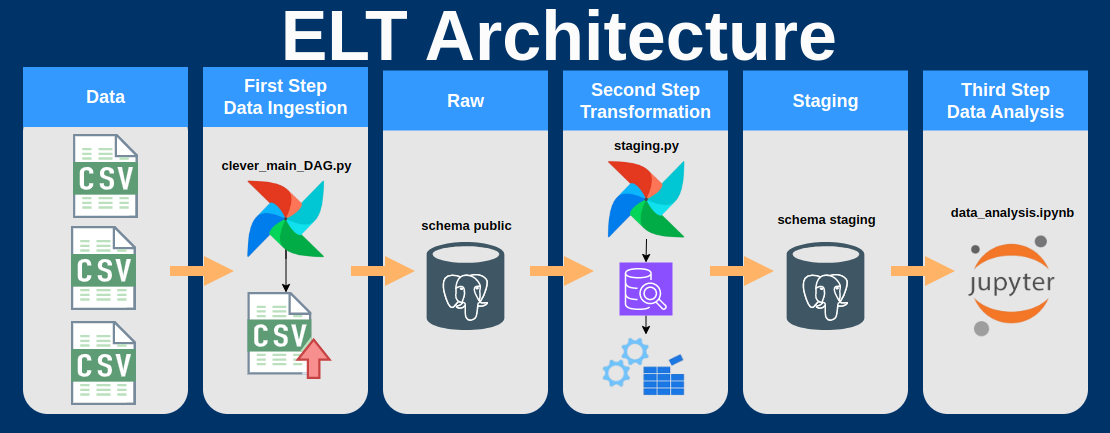
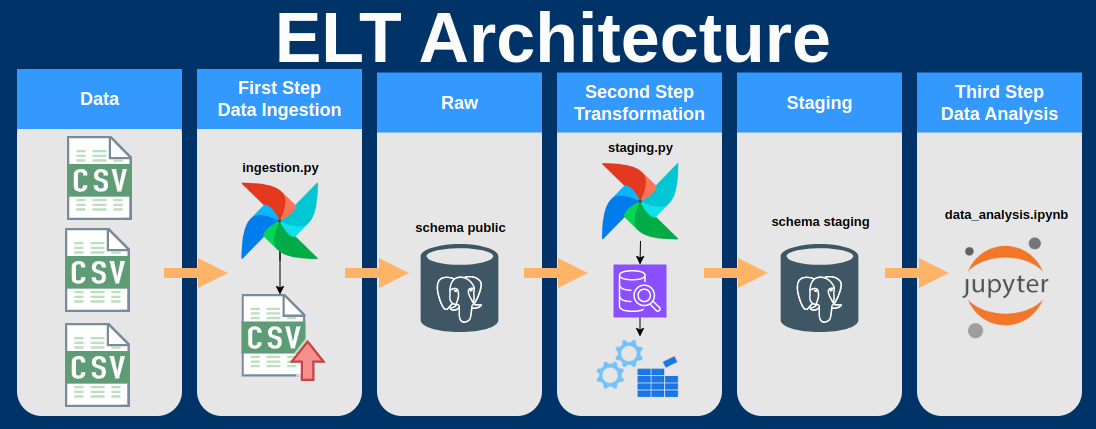
change dag name

diff --git a/dags/ingestion.py b/dags/ingestion.py
@@ -22,7 +22,7 @@ datasets = [
 ]
 
 with DAG(
-    dag_id="clever_main_DAG",
+    dag_id="ingestion",
     default_args=default_args,
     catchup=False,
     schedule="20 0 * * *",

diff --git a/README.md b/README.md
@@ -2,14 +2,14 @@
 
 Hello everyone! For this project, I decided to focus on a more robust architecture by creating an ELT and using Postgres as a data lake with data layers.
 
-The main DAG is still [clever_main_DAG.py](dags/clever_main_DAG.py), but now there is a second DAG called [staging.py](dags/staging.py) that, as the name suggests, creates the second data layer, keeping only the tables that will be used for analysis, while also performing some basic transformations. To do this, I created some queries that perform these transformations and finally I performed the analyses in the [data_analysis.ipynb](notebooks/data_analysis.ipynb) notebook.
+The main DAG is still [ingestion.py](dags/ingestion.py), but now there is a second DAG called [staging.py](dags/staging.py) that, as the name suggests, creates the second data layer, keeping only the tables that will be used for analysis, while also performing some basic transformations. To do this, I created some queries that perform these transformations and finally I performed the analyses in the [data_analysis.ipynb](notebooks/data_analysis.ipynb) notebook.
 
 ## Architecture
 
 ![ELT_Architecture](elt_arch.png)
 
 ### First step - Data Ingestion
-Data ingestion starts with [clever_main_DAG.py](dags/clever_main_DAG.py), which takes the list of CSVs and dumps them into the database in the public schema. This is the "raw" layer where the data has not been transformed. It is possible to use this data, but this makes analysis difficult because it still has a lot of noise, many useless columns, null data, wrong datatypes, among other things, so having a "staging" layer helps ensure better data quality.
+Data ingestion starts with [ingestion.py](dags/ingestion.py), which takes the list of CSVs and dumps them into the database in the public schema. This is the "raw" layer where the data has not been transformed. It is possible to use this data, but this makes analysis difficult because it still has a lot of noise, many useless columns, null data, wrong datatypes, among other things, so having a "staging" layer helps ensure better data quality.
 
 ### Second step - Data Transformation
 Now, after the data is available in the database, it's time to choose which tables to use and make the basic transformations. For this, I'm using the DAG [staging.py](dags/staging.py) that uses the `run_sql()` function to run the queries that you can find in the `/data-trial/queries/` path.
@@ -35,7 +35,7 @@ and the columns
 
 Validations are mainly to avoid null data that I consider necessary. From the point of view of the end customer who is researching which company to hire, I also considered it necessary for the company to have a telephone number or website, be verified and the status be `"OPERATIONAL"` so that the customer can hire the company without problems.
 
-> Note: this DAG uses an Airflow dataset, so whenever [clever_main_DAG.py](dags/clever_main_DAG.py) finishes this DAG will be triggered. This is good to ensure that even if there is a delay in the first DAG, the second one will not be triggered before time. But it is important to be aware of the following: If you clear any run of the mother DAG, the child DAG will be triggered again. In this case it does not cause any problems but it is good to be aware of this behavior.
+> Note: this DAG uses an Airflow dataset, so whenever [ingestion.py](dags/ingestion.py) finishes this DAG will be triggered. This is good to ensure that even if there is a delay in the first DAG, the second one will not be triggered before time. But it is important to be aware of the following: If you clear any run of the mother DAG, the child DAG will be triggered again. In this case it does not cause any problems but it is good to be aware of this behavior.
 
 ### Third Step - Data Analysis
 
